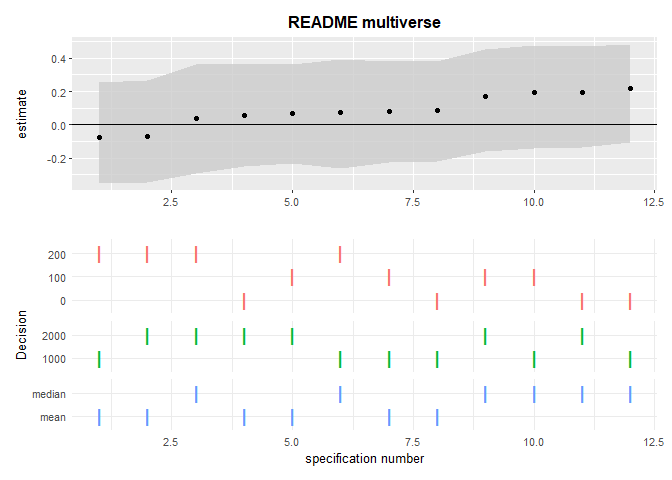
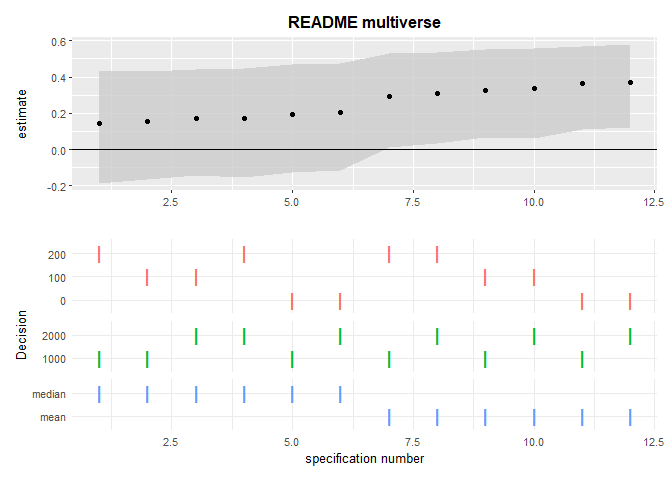
JOSS accepted updating citation info

diff --git a/README.md b/README.md
@@ -93,8 +93,8 @@ usability due to people asking for help.
 
 ## Latest update:
 
-**Version 0.8.2 now out! \[unofficial version name: “Kitten Mittens”\]**
-Lots of fixed issues in the multiverse functions, and lots more
+**Version 0.8.1 now out! \[unofficial version name: “Rum Ham”\]** Lots
+of fixed issues in the multiverse functions, and lots more
 documentation/examples!
 
 **Now on github and submitted to CRAN: VERSION 0.7.2 \[unofficial
@@ -269,16 +269,16 @@ sim_data %>%
 # Groups:   participant_number, block_name [120]
    participant_number block_name congruent incongruent   bias
                 <int> <fct>          <dbl>       <dbl>  <dbl>
- 1                  1 A               499.        501.  -1.61
- 2                  1 B               512.        485.  27.5 
- 3                  2 A               494.        540. -45.9 
- 4                  2 B               496.        503.  -7.26
- 5                  3 A               518.        492.  26.0 
- 6                  3 B               466.        504. -37.6 
- 7                  4 A               522.        533. -11.0 
- 8                  4 B               495.        503.  -7.98
- 9                  5 A               434.        480. -46.0 
-10                  5 B               458.        511. -52.7 
+ 1                  1 A               538.        516.  21.8 
+ 2                  1 B               502.        559. -57.2 
+ 3                  2 A               521.        528.  -7.03
+ 4                  2 B               487.        509. -21.8 
+ 5                  3 A               468.        537. -69.3 
+ 6                  3 B               487.        542. -55.1 
+ 7                  4 A               428.        514. -86.3 
+ 8                  4 B               441.        505. -64.3 
+ 9                  5 A               510.        505.   5.21
+10                  5 B               474.        556. -82.5 
 # ... with 110 more rows
 ```
 
@@ -304,8 +304,8 @@ difference <- splithalf(data = sim_data,
 ```
 
       condition  n splithalf 95_low 95_high spearmanbrown SB_low SB_high
-    1         A 60     -0.13  -0.30    0.06         -0.22  -0.46    0.11
-    2         B 60      0.04  -0.14    0.22          0.06  -0.24    0.36
+    1         A 60      0.09  -0.08    0.27          0.15  -0.15    0.43
+    2         B 60      0.06  -0.12    0.24          0.10  -0.21    0.39
 
 Specifying `plot = TRUE` will also allow you to plot the distributions
 of reliability estimates. you can extract the plot from a saved object
@@ -343,7 +343,7 @@ formula is not useful in this case.
 > We estimated the internal consitency of bias A and B using a
 > permutation-based splithalf approach (Parsons 2019) with 5000 random
 > splits. The (Spearman-Brown corrected) splithalf internal consistency
-> of bias A was were *r*<sub>SB</sub> = -0.22, 95%CI \[-0.46,0.11\].
+> of bias A was were *r*<sub>SB</sub> = 0.15, 95%CI \[-0.15,0.43\].
 >
 > — Parsons, 2020
 
@@ -370,8 +370,8 @@ average <- splithalf(data = sim_data,
 ```
 
       condition  n splithalf 95_low 95_high spearmanbrown SB_low SB_high
-    1         A 60     -0.03  -0.20    0.16         -0.04  -0.33    0.28
-    2         B 60     -0.14  -0.31    0.04         -0.24  -0.48    0.09
+    1         A 60     -0.12  -0.29    0.07         -0.21  -0.45    0.13
+    2         B 60     -0.07  -0.24    0.12         -0.12  -0.39    0.21
 
 ### Difference-of-difference scores
 
@@ -417,9 +417,9 @@ diff_of_diff <- splithalf(data = sim_data,
 ```
 
                            condition  n splithalf 95_low 95_high spearmanbrown
-    1 difference_of_difference score 60     -0.04  -0.22    0.15         -0.08
+    1 difference_of_difference score 60     -0.08  -0.25    0.11         -0.14
       SB_low SB_high
-    1  -0.36    0.26
+    1   -0.4    0.19
 
 ## Multiverse analysis extension
 
